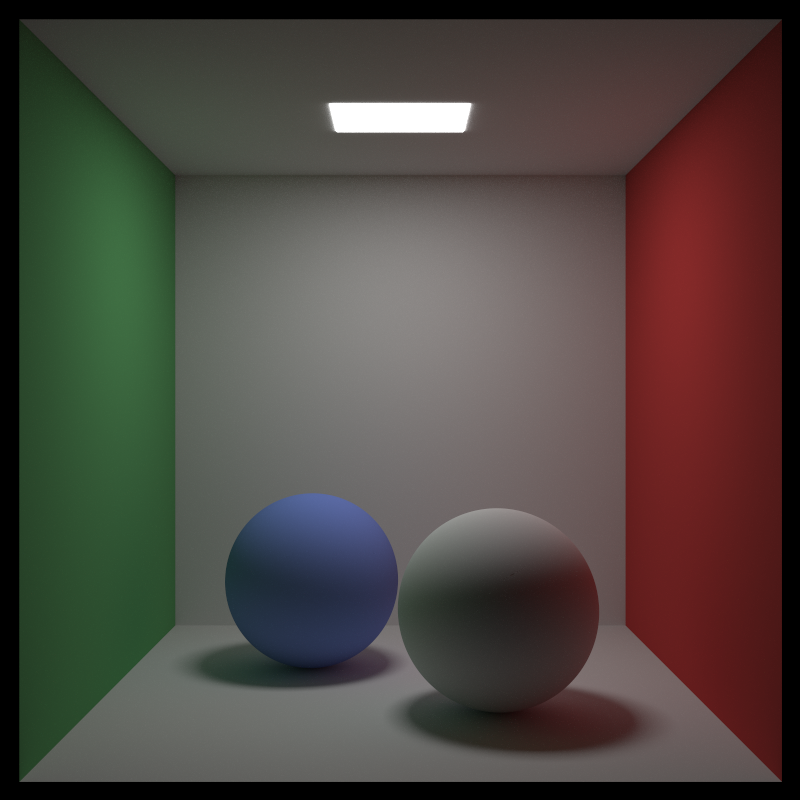
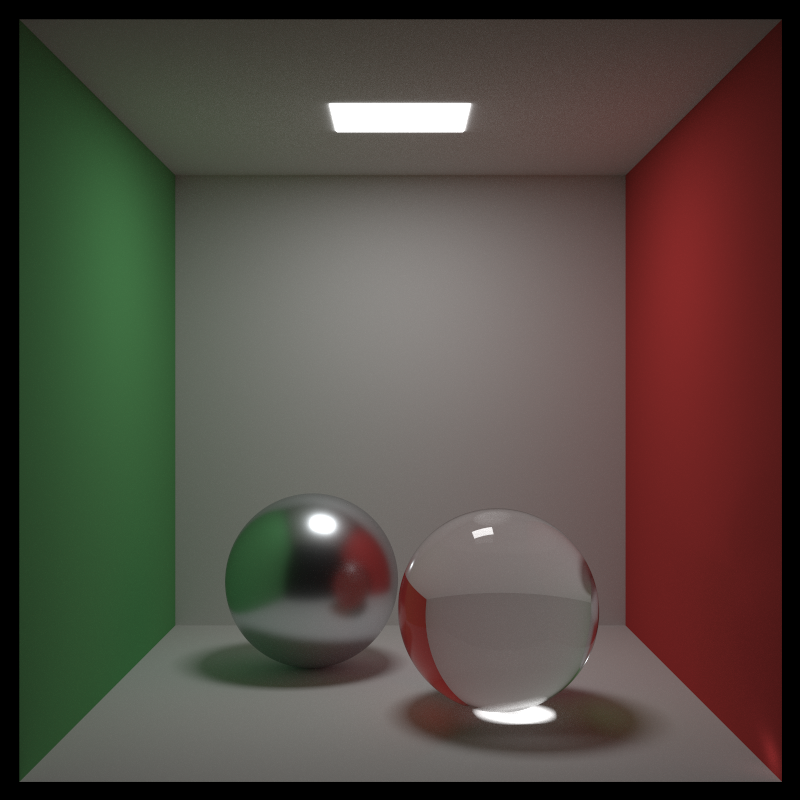
GPU Phase C (increment 3): GGX metal + dielectric (full material set) (#12)
The GPU path tracer now supports the whole material set, so the real Cornell box
(glass + mirror) and the material showcase render on the GPU.

- Metal: perfect mirror (delta) below the roughness threshold; otherwise GGX
  microfacet via VNDF importance sampling (Heitz 2018), with Trowbridge-Reitz D,
  height-correlated Smith G, and Schlick Fresnel — matching prime-core exactly.
- Dielectric: Schlick-Fresnel reflect/refract (total internal reflection
  handled), using the geometric front/back face like the CPU.
- BSDFs exposed as sample/eval/pdf in the kernel, so NEE+MIS applies to rough
  metal while delta lobes (mirror/glass) correctly skip light sampling. Path
  bounce now starts at the hit point (no normal offset), so refracted rays go to
  the correct side.
- `prime-gpu cornell` is now the real demo (glass + metal); `cornell-diffuse`
  keeps the all-diffuse variant.

Verified on the RTX 5090: full Cornell RMSE vs the CPU falls 3.3% / 1.8% / 0.95%
at 256 / 1024 / 4096 spp (1/sqrt(spp) — noise, not bias); showcase 2.2% @ 1024.
prime-cuda fmt/clippy clean; workspace unaffected.

Next: textures + environment lighting (CPU feature parity).

Changed region(s): [[0.2812, 0.5938, 0.75, 0.9375], [0.9375, 0.9062, 1.0, 0.9688]]

diff --git a/crates/prime-cuda/src/main.rs b/crates/prime-cuda/src/main.rs
@@ -211,7 +211,8 @@ fn validate(scene: &Scene, args: &Args, gpu: &[u8]) {
 
 fn load_scene(name: &str) -> Result<Scene> {
     Ok(match name {
-        "cornell" => diffuse_cornell(),
+        "cornell" => demo::cornell_box(),
+        "cornell-diffuse" => diffuse_cornell(),
         "showcase" => demo::showcase(),
         "spheres" => demo::spheres(),
         "rtweekend" => demo::rtweekend(),

diff --git a/README.md b/README.md
@@ -206,21 +206,22 @@ CUDA_PATH=/usr/local/cuda \
   cornell --samples 1024 --output out/gpu.png --validate
 ```
 
-**Status — Phase C (increment 2):** a GPU **path tracer** with **next-event
-estimation + MIS**. The scene's BVH, primitives, material table, and light list
-are uploaded; the kernel reuses the validated Phase-B traversal and adds shading
-+ direct light sampling (Lambertian + emissive, Russian roulette). The GPU uses
-plain white-noise sampling (not the CPU's QMC), but both are unbiased estimators
-of the same rendering equation, so the GPU image **converges to the CPU
-reference**: on the diffuse Cornell box, `--validate` reports RMSE falling
-**2.6% → 1.5% → 0.9%** at 64 / 256 / 1024 spp (the 1/√spp decay — noise, not
-bias; NEE reaches at 256 spp what the pure path tracer needed ~4k spp for). And
-it's **~150× faster than the single-threaded CPU** at equal samples on an RTX 5090.
+**Status — Phase C (increment 3):** a GPU **path tracer with the full material
+set** — Lambertian, **GGX microfacet Metal** (mirror + rough, VNDF-sampled),
+**Dielectric** glass (Fresnel refraction), and emissive — plus next-event
+estimation + MIS. The kernel mirrors the CPU's material BSDFs (Trowbridge-Reitz
+D, height-correlated Smith G, Schlick Fresnel) and integrator, so the GPU image
+**converges to the CPU reference**: on the full Cornell box (glass + mirror),
+`--validate` reports RMSE falling **3.3% → 1.8% → 0.95%** at 256 / 1024 / 4096 spp
+(the 1/√spp decay — noise, not bias). The GPU is **~150× faster than the
+single-threaded CPU** at equal samples on an RTX 5090.
 
-Next increments: GGX metal & dielectric (so the full Cornell renders), then
-textures + environment lighting.
+Next increment: textures + environment lighting (feature parity with the CPU).
 
-<p align="center"><img src="docs/renders/gpu_phaseC.png" width="480"><br><i>Path-traced on the GPU (RTX 5090): the diffuse Cornell box, converged to the CPU reference.</i></p>
+<p align="center">
+<img src="docs/renders/gpu_phaseC.png" width="380">
+<img src="docs/renders/gpu_showcase.png" width="380">
+<br><i>Path-traced on the GPU (RTX 5090): the Cornell box and the material showcase (glass, mirror, GGX metals), converged to the CPU reference.</i></p>
 
 ---
 